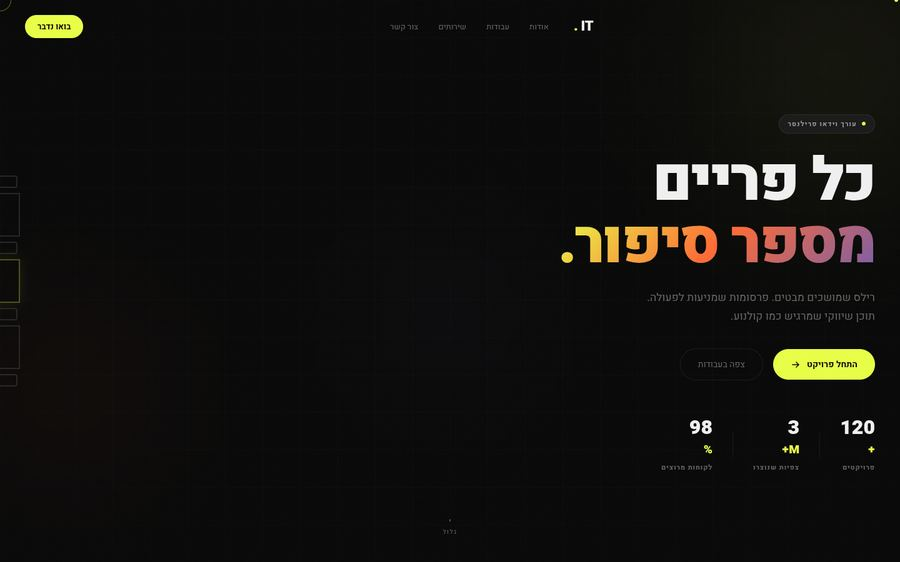
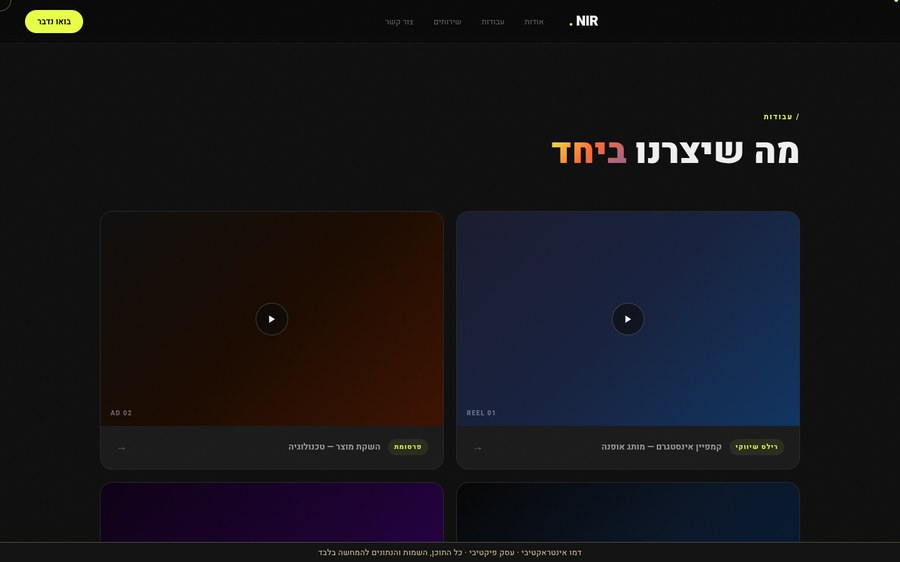
seed 013: relief #3 - videoeditor station on authored gallery-map depth, closer dwell (gc 0.880, offD 40), per-station heat, old-prop gating in dwell window, plate 03 demo link muted pending deploy

diff --git a/js/world.js b/js/world.js
@@ -6,7 +6,7 @@
 
 import * as THREE from 'three';
 import { makeCrucible, makeNiche, makeBookSealStand } from './props.js';
-import { makeRelief, SOSHIMI_DEPTH, VERDANT_DEPTH } from './relief.js';
+import { makeRelief, SOSHIMI_DEPTH, VERDANT_DEPTH, VIDEOEDITOR_DEPTH } from './relief.js';
 
 const NOISE = /* glsl */`
 vec3 permute(vec3 x){return mod(((x*34.0)+1.0)*x,289.0);}
@@ -331,18 +331,19 @@ export function createWorld(canvas) {
   const RELIEF_CONF = {
     0: { map: 'assets/work-soshimi.jpg', spec: SOSHIMI_DEPTH, seed: 977,  impact: [0.38, 0.58], nt: 0.615, gc: 0.58  }, // relief #1: soshimi
     1: { map: 'assets/work-verdant.jpg', spec: VERDANT_DEPTH, seed: 1409, impact: [0.50, 0.70], nt: 0.720, gc: 0.685 }, // relief #2: The Sound Room
+    2: { map: 'assets/work-videoeditor.jpg', spec: VIDEOEDITOR_DEPTH, seed: 2711, impact: [0.75, 0.24], heat: 1.5, nt: 0.901, gc: 0.880, offD: 40, offM: 62, leadM: 8 }, // relief #3: NIR video editor (gallery map, closer dwell)
   };
   const nicheShots = ['assets/work-soshimi.jpg', 'assets/work-verdant.jpg', 'assets/work-videoeditor.jpg'];
   nicheShots.forEach((src, i) => {
     const rc = RELIEF_CONF[i];
     const isRelief = !!rc; // S4 works as fired basalt reliefs (v3.1 decision 1), one station per work
-    const niche = isRelief ? makeRelief({ map: texLoader.load(rc.map), depthSpec: rc.spec, seed: rc.seed, impact: rc.impact }) : makeNiche(1.6, 1.05);
+    const niche = isRelief ? makeRelief({ map: texLoader.load(rc.map), depthSpec: rc.spec, seed: rc.seed, impact: rc.impact, heat: rc.heat ?? 1.0 }) : makeNiche(1.6, 1.05);
     const nt = (isRelief ? rc.nt : 0.58 + i * 0.09);
     const np = curve.getPointAt(nt);
     const side = i % 2 === 0 ? 1 : -1;
     niche.scale.setScalar(isRelief ? 1.15 : 13);
-    niche.position.set(np.x + side * (isRelief ? 52 : 44), np.y + 13, np.z);
-    if (isRelief) { reliefStations.push({ pos: niche.position.clone(), side, gc: rc.gc, nt: rc.nt }); niche.rotation.y = -side * 0.35; niche.userData.isReliefRoot = true; if (i === 0) window.__egRelief = niche; else window.__egRelief2 = niche; }
+    niche.position.set(np.x + side * (isRelief ? (innerWidth < 720 ? (rc.offM ?? 52) : (rc.offD ?? 52)) : 44), np.y + 13, np.z); // per-station lateral offset, mobile gets more room
+    if (isRelief) { reliefStations.push({ pos: niche.position.clone(), side, gc: rc.gc, nt: rc.nt, lead: innerWidth < 720 ? (rc.leadM ?? 3.2) : 3.2 }); niche.rotation.y = -side * 0.35; niche.userData.isReliefRoot = true; if (i === 0) window.__egRelief = niche; else window.__egRelief2 = niche; }
     /* unrotated: plane fronts face +z, toward the approaching camera */
     scene.add(niche);
     texLoader.load(src, (tex) => { if (niche.userData.setImage) niche.userData.setImage(tex); });
@@ -360,14 +361,14 @@ export function createWorld(canvas) {
     const back = new THREE.Mesh(backGeo, basalt2());
     back.position.copy(niche.position); back.position.y -= 3; back.position.z -= 9; back.rotation.y = side * 0.06;
     if (!isRelief) scene.add(back);
-    const caseLight = new THREE.PointLight(0xFFD28A, 500, 70, 2);
+    const caseLight = new THREE.PointLight(0xFFD28A, 500, isRelief ? 70 : 100, 2);
     caseLight.position.set(np.x + side * 20, np.y + 22, np.z + 24);
     scene.add(caseLight);
     niche.traverse(o => { if (o.material) { o.material.transparent = true; } });
     const backMats = back.material;
     backMats.transparent = true;
     propsUpdaters.push((t, pr, pq) => {
-      let ph = Math.min(1, Math.max(0, 1 - Math.abs(pq - nt) / 0.075));
+      let ph = Math.min(1, Math.max(0, 1 - Math.abs(pq - nt) / (isRelief ? 0.075 : 0.12))); // plain niches glow in earlier on approach
       if (isRelief) {
         // relief arc unfolds during the approach and completes at the dwell (gaze center gc)
         const a = Math.min(1, Math.max(0, (pq - (rc.gc - 0.085)) / 0.085));
@@ -584,7 +585,7 @@ export function createWorld(canvas) {
   projLight.position.set(rockGp.x - 2, 40, rockGp.z + 10);
   scene.add(projLight);
   propsUpdaters.push((t, pr, pq) => {
-    const ph = Math.min(1, Math.max(0, 1 - Math.abs(pq - 0.835) / 0.13));
+    const ph = Math.min(1, Math.max(0, 1 - Math.abs(pq - 0.835) / 0.03)); // rock beat compressed ahead of relief #3 dwell
     const flick = 0.85 + 0.15 * Math.sin(t * 13.0) * Math.sin(t * 7.3);
     projMat.opacity = ph * 0.95 * flick;
     projLight.intensity = ph * 1500 * flick;
@@ -595,7 +596,7 @@ export function createWorld(canvas) {
   const spireMat = new THREE.MeshBasicMaterial({ color: 0x0e0a07, fog: true, transparent: true, opacity: 0 });
   propsUpdaters.push((t, pr) => {
     const base = Math.min(1, Math.max(0, (pr - 0.05) / 0.06));
-    const reliefClear = 1 - smooth(0.415, 0.455, pr) + smooth(0.61, 0.66, pr);
+    const reliefClear = (1 - smooth(0.415, 0.455, pr) + smooth(0.61, 0.66, pr)) * (1 - smooth(0.70, 0.73, pr) * (1 - smooth(0.80, 0.83, pr))); // also clear for the relief #3 dwell
     spireMat.opacity = base * Math.min(1, reliefClear);
   });
   let seed = 7;
@@ -616,7 +617,7 @@ export function createWorld(canvas) {
       posA.setZ(v, posA.getZ(v) * (0.82 + rnd() * 0.4));
     }
     geo.computeVertexNormals();
-    if (st > 0.30 && st < 0.72) continue; // quarry slice: no spire/cone silhouettes anywhere in the relief act
+    if ((st > 0.30 && st < 0.72) || (st > 0.83 && st < 0.96)) continue; // no spire/cone silhouettes in any relief act window
     const spire = new THREE.Mesh(geo, spireMat);
     spire.position.set(sp.x + side * dist, h * 0.32, sp.z + (rnd() - 0.5) * 60);
     spire.rotation.y = rnd() * Math.PI;
@@ -626,7 +627,7 @@ export function createWorld(canvas) {
   /* ---------- drive ---------- */
   const smooth = (a, b, x) => { const t = Math.min(1, Math.max(0, (x - a) / (b - a))); return t * t * (3 - 2 * t); };
   // station remap (camera-path spec v1.0 windows): dwell at stations, travel between
-  const REMAP = [[0,0],[0.04,0.012],[0.20,1/6],[0.34,2/6],[0.46,3/6],[0.56,4/6],[0.66,0.830],[0.70,5/6],[0.74,5/6+0.004],[0.88,0.93],[1,1]]; // 0.56-0.66: second works station dwell (relief #2), same slope language as the first
+  const REMAP = [[0,0],[0.04,0.012],[0.20,1/6],[0.34,2/6],[0.46,3/6],[0.56,4/6],[0.66,0.830],[0.72,0.848],[0.82,0.930],[1,1]]; // 0.56-0.66: relief #2 dwell; 0.66-0.72: rock beat; 0.72-0.82: relief #3 dwell; 0.82-1: door approach
   function pathT(pr) {
     for (let i = 1; i < REMAP.length; i++) {
       if (pr <= REMAP[i][0]) {
@@ -644,12 +645,12 @@ export function createWorld(canvas) {
     tUni.uTime.value = t; pathUni.uTime.value = t;
     tUni.uBuild.value = smooth(0.0, 0.30, prS);
     tUni.uVeins.value = smooth(0.10, 0.26, prS) * (1.0 - smooth(0.58, 0.78, prS) * 0.8);
-    tUni.uSun.value = smooth(0.52, 0.80, prS);
+    tUni.uSun.value = smooth(0.52, 0.80, prS) * (1 - 0.55 * smooth(0.705, 0.74, prS) * (1 - smooth(0.79, 0.825, prS))); // same dwell dip as sunRise
     skyUni.uSun.value = tUni.uSun.value;
     sky.position.copy(camera.position);
     pathUni.uReveal.value = prS * 1.02;
 
-    const sunRise = smooth(0.52, 0.86, prS);
+    const sunRise = smooth(0.52, 0.86, prS) * (1 - 0.55 * smooth(0.705, 0.74, prS) * (1 - smooth(0.79, 0.825, prS))); // dip the wash while relief #3 holds the dwell
     sun.position.y = -220 + sunRise * 330;
     sun.material.opacity = smooth(0.50, 0.72, prS);
     sunGlow.material.opacity = smooth(0.55, 0.85, prS) * 0.5;
@@ -664,11 +665,11 @@ export function createWorld(canvas) {
     const rockIn = smooth(0.66, 0.72, prS); // S5 projection rock exists only in its own act
   rockMat.opacity = rockIn; rock.visible = rockIn > 0.01;
   const gateIn = smooth(0.84, 0.97, prS);
-    monoMat.opacity = 0.95 * smooth(0.70, 0.86, prS); // no 5% ghost on the horizon during the works acts
+    monoMat.opacity = 0.95 * smooth(0.815, 0.90, prS); // gate exists only in the door act - no ghost during any works station
     doorMat.opacity = gateIn * 0.8;
     doorGlow.material.opacity = gateIn * 0.4;
 
-    const warm = smooth(0.45, 0.85, prS);
+    const warm = smooth(0.45, 0.85, prS) * (1 - 0.4 * smooth(0.705, 0.74, prS) * (1 - smooth(0.79, 0.825, prS)));
     scene.fog.color.setRGB(0.078 + warm * 0.05, 0.063 + warm * 0.012, 0.047);
     tUni.uFogColor.value.copy(scene.fog.color); pathUni.uFogColor.value.copy(scene.fog.color);
 
@@ -695,7 +696,7 @@ export function createWorld(canvas) {
       const rPh = Math.min(1, Math.max(0, 1 - Math.abs(pq - rs.gc) / 0.075));
       const w = rPh * rPh * (3 - 2 * rPh);
       if (w <= 0) continue;
-      gx += (rs.pos.x + rs.side * 3.2) * w; gy += (rs.pos.y + 1) * w; gz += rs.pos.z * w; gw += w; // gaze past face center: no edge crop at full dwell
+      gx += (rs.pos.x + rs.side * rs.lead) * w; gy += (rs.pos.y + 1) * w; gz += rs.pos.z * w; gw += w; // gaze past face center: no edge crop at full dwell
     }
     const lx = ahead.x * 0.6 + ((gw > 0 ? gx / gw : 0) - ahead.x * 0.6) * gw;
     const ly = (ahead.y - 8) + ((gw > 0 ? gy / gw : 0) - (ahead.y - 8)) * gw;

diff --git a/js/relief.js b/js/relief.js
@@ -22,6 +22,7 @@ const RELIEF_FRAG = /* glsl */`
   uniform sampler2D uMap, uDepth;
   uniform float uArc, uTime;
   uniform vec2 uImp;
+  uniform float uHeat;
   uniform vec2 uTexel;
   varying vec2 vUv;
   float vnoise(vec2 p) {
@@ -69,7 +70,7 @@ const RELIEF_FRAG = /* glsl */`
     float lit = smoothstep(front, front - 0.22, rad);  // glow where the front has passed
     float flick = 0.82 + 0.18 * sin(uTime * 11.0) * sin(uTime * 6.7);
     float heat = (edge * 0.85 + crack * 1.5) * channels * veinsPh * lit * flick;
-    col += vec3(1.0, 0.55, 0.18) * heat * 3.2 * (1.0 - read);
+    col += vec3(1.0, 0.55, 0.18) * heat * 3.2 * uHeat * (1.0 - read); // uHeat: per-station ignition amplitude, same heat logic
     col += vec3(1.0, 0.62, 0.25) * ignite * (1.0 - read) * 0.10 * channels;
     gl_FragColor = vec4(col, 1.0);
   }
@@ -125,7 +126,18 @@ const VERDANT_DEPTH = {
   ],
 };
 
-export function makeRelief({ map, depthSpec, seed = 977, impact = [0.38, 0.58] }) {
+const VIDEOEDITOR_DEPTH = {
+  base: 0.42,
+  regions: [
+    [0.60, 0.18, 0.30, 0.12, 0.85],  // gallery headline - carved deepest
+    [0.50, 0.36, 0.40, 0.48, 0.78],  // blue work card
+    [0.10, 0.36, 0.40, 0.48, 0.78],  // orange work card
+    [0.10, 0.85, 0.80, 0.15, 0.55],  // lower card row
+    [0.00, 0.00, 1.00, 0.07, 0.34],  // nav strip - chrome, shallow
+  ],
+};
+
+export function makeRelief({ map, depthSpec, seed = 977, impact = [0.38, 0.58], heat = 1.0 }) {
   const group = new THREE.Group();
   const depthTex = buildDepthTexture(depthSpec);
   const mat = new THREE.ShaderMaterial({
@@ -135,6 +147,7 @@ export function makeRelief({ map, depthSpec, seed = 977, impact = [0.38, 0.58] }
       uArc: { value: 0 }, uTime: { value: 0 },
       uTexel: { value: new THREE.Vector2(1 / 450, 1 / 281) },
       uImp: { value: new THREE.Vector2(impact[0], impact[1]) },
+      uHeat: { value: heat },
     },
   });
   const face = new THREE.Mesh(new THREE.PlaneGeometry(33.8, 21.2, 130, 84), mat);
@@ -168,4 +181,4 @@ export function makeRelief({ map, depthSpec, seed = 977, impact = [0.38, 0.58] }
   group.userData.update = (t, arc) => { mat.uniforms.uTime.value = t; mat.uniforms.uArc.value = arc; };
   return group;
 }
-export { SOSHIMI_DEPTH, VERDANT_DEPTH };
+export { SOSHIMI_DEPTH, VERDANT_DEPTH, VIDEOEDITOR_DEPTH };

diff --git a/index.html b/index.html
@@ -133,6 +133,13 @@
   <p class="wp-func">סינון לפי סוג כלי · סל קניות · צ'ק-אאוט מדורג</p>
   <p class="wp-row"><a class="wp-demo" href="https://verdant-frangipane-6efb01.netlify.app/" target="_blank" rel="noopener">פתחו את הדמו ↗</a><span class="cta-pill cta-pill-sm is-disabled" data-pending-whatsapp aria-disabled="true" role="link" title="זמין בקרוב">דברו איתי בוואטסאפ</span></p>
 </aside>
+<aside id="plate-video" class="work-plate" aria-hidden="true">
+  <p class="wp-idx">03 — תיק עבודות</p>
+  <p class="wp-name">ניר — עריכת וידאו</p>
+  <p class="wp-label">עורך וידאו פרילנסר — דמו אינטראקטיבי לעסק פיקטיבי</p>
+  <p class="wp-func">גלריית עבודות · בחירת שירות · טופס יצירת קשר</p>
+  <p class="wp-row"><span class="wp-demo is-disabled" aria-disabled="true" title="הדמו מתעדכן">הדמו מתעדכן</span><span class="cta-pill cta-pill-sm is-disabled" data-pending-whatsapp aria-disabled="true" role="link" title="זמין בקרוב">דברו איתי בוואטסאפ</span></p>
+</aside>
 <aside id="plate-soshimi" class="work-plate" aria-hidden="true">
   <p class="wp-idx">01 — תיק עבודות</p>
   <p class="wp-name">סושימי</p>

diff --git a/js/props.js b/js/props.js
@@ -159,7 +159,7 @@ export function makeNiche(frameW = 1.6, frameH = 1.1) {
     new THREE.MeshStandardMaterial({ color: 0xffffff, transparent: true, opacity: 0.05, roughness: 0.1, metalness: 0.9 }));
   glass.position.z = 0.045; g.add(glass);
   g.userData.setImage = (tex) => { tex.colorSpace = THREE.SRGBColorSpace; imgMat.map = tex; imgMat.emissiveMap = tex; imgMat.emissive.set(0xffffff); imgMat.color.set(0xffffff); imgMat.needsUpdate = true; };
-  g.userData.update = (t, phase = 0) => { imgMat.emissiveIntensity = 0.18 + phase * 0.62; };
+  g.userData.update = (t, phase = 0) => { imgMat.emissiveIntensity = 0.18 + phase * 0.95; };
   return g;
 }
 

diff --git a/js/main.js b/js/main.js
@@ -258,6 +258,8 @@ function loop(t) {
   if (plate) plate.classList.toggle('is-on', pr > 0.485 && pr < 0.545);
   const plate2 = document.getElementById('plate-verdant');
   if (plate2) plate2.classList.toggle('is-on', pr > 0.556 && pr < 0.610);
+  const plate3 = document.getElementById('plate-video');
+  if (plate3) plate3.classList.toggle('is-on', pr > 0.716 && pr < 0.770);
   const worksTitle = document.querySelector('.works-title');
   if (worksTitle) worksTitle.style.opacity = (pr > 0.478 && pr < 0.552) ? '0' : '';
   const worksInner = document.querySelector('.works-inner');

diff --git a/css/style.css b/css/style.css
@@ -296,6 +296,7 @@ body.is-open #scroll-content { opacity: 1; transition: opacity 1.1s ease .35s; }
 .wp-func{opacity:.92;margin-top:8px !important}
 .wp-row{display:flex;gap:16px;align-items:baseline;margin-top:10px;border-top:1px solid rgba(244,241,234,.12);padding-top:10px}
 .wp-demo{color:#FFD28A;font-size:15px}
+.wp-demo.is-disabled{color:rgba(230,210,170,.4);cursor:default}
 @media (max-width:600px){
   .work-plate{bottom:0;inset-inline-end:0;width:100%;max-height:32vh;overflow:auto;
     padding:13px 18px calc(12px + env(safe-area-inset-bottom))}
